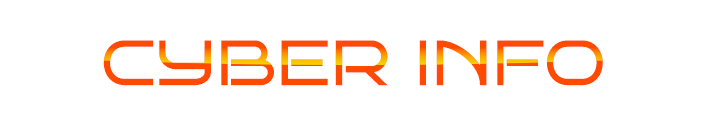
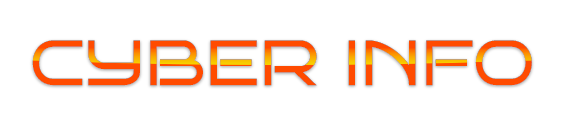
3 dots

Changed region(s): [[0.0301, 0.312, 0.9628, 0.696]]

diff --git a/src/Main/menu/HeaderMain.js b/src/Main/menu/HeaderMain.js
@@ -81,7 +81,7 @@ const HeaderMain = (props) => {
           </div>
           <div className="textdiv">
             <div><img src={cyberInfo} alt="cyberinfo" className="cyberText" /></div>
-            <div><img src={augmented} alt="augmented" className="augmentedText" /></div>
+            {/* <div><img src={augmented} alt="augmented" className="augmentedText" /></div> */}
           </div>
           </div>
 

diff --git a/src/Main/menu/headerMain.css b/src/Main/menu/headerMain.css
@@ -32,11 +32,12 @@
     width: 80px;
     padding: 5px;
     height: 100%;
-    margin-left: 50px;
+    margin-left: 30px;
+    margin-right: 0px;
 }
 .cyberText{
-  width:200px;
-  height: 40px;
+  width:225px;
+  height: 65px;
 }
 .augmentedText{
   width: 250px;
@@ -50,6 +51,7 @@
   display: flex;
   flex-direction: column;
   justify-content: center;
+  margin: 0px;
 }
 .textdiv > div{
   margin: 0px;

diff --git a/src/Main/Contact.js b/src/Main/Contact.js
@@ -114,7 +114,7 @@ const Form = () => {
   return (
     <div className="form">
       <div>
-        <h1>Let's Connect</h1>
+        <h1>Let's Connect...</h1>
       </div>
 
       <form ref = {refForm} onSubmit= {sendEmail}>
